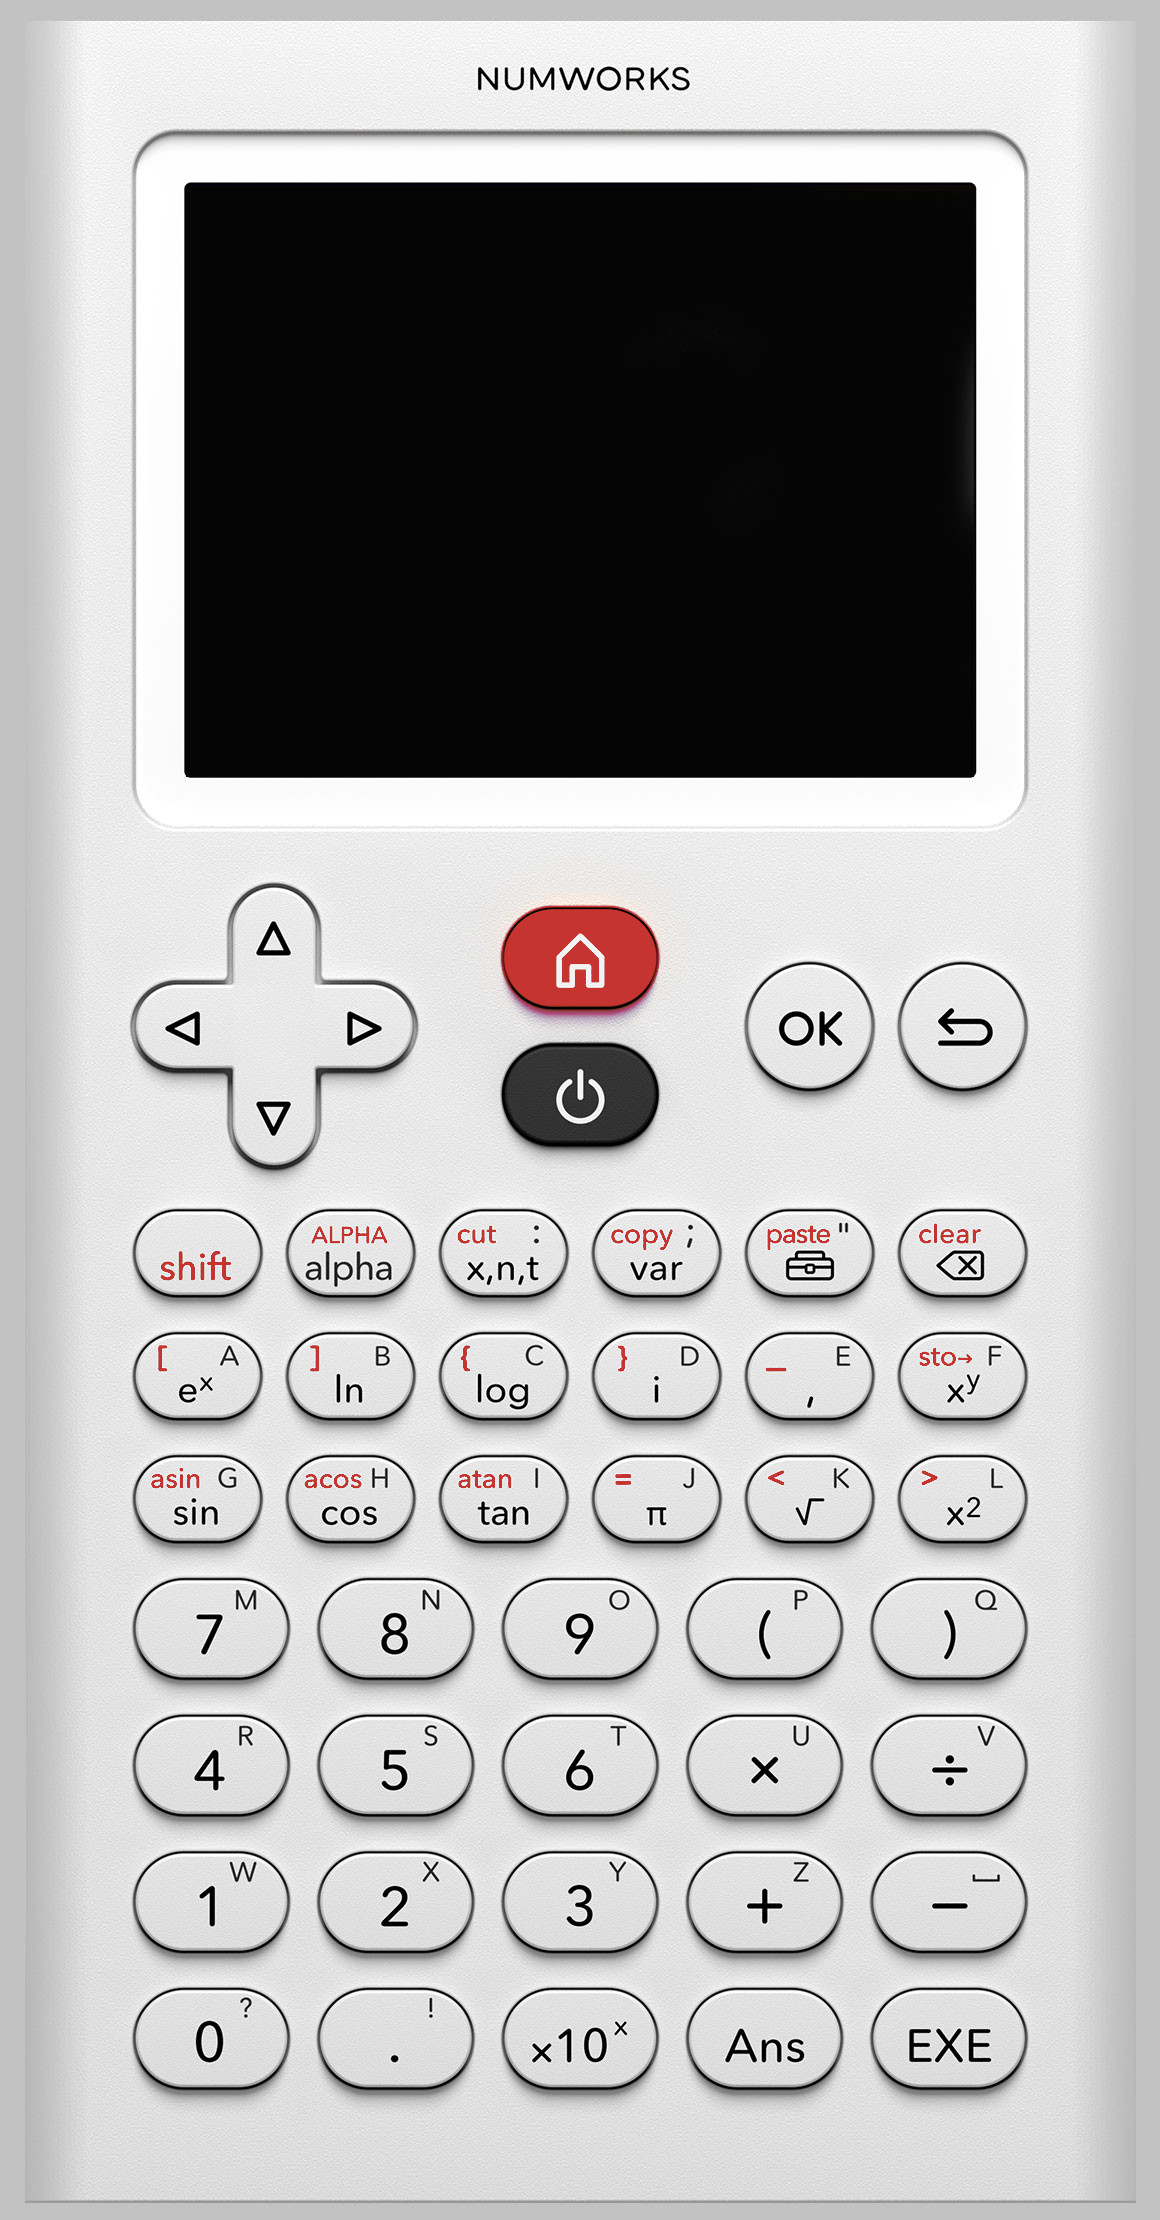
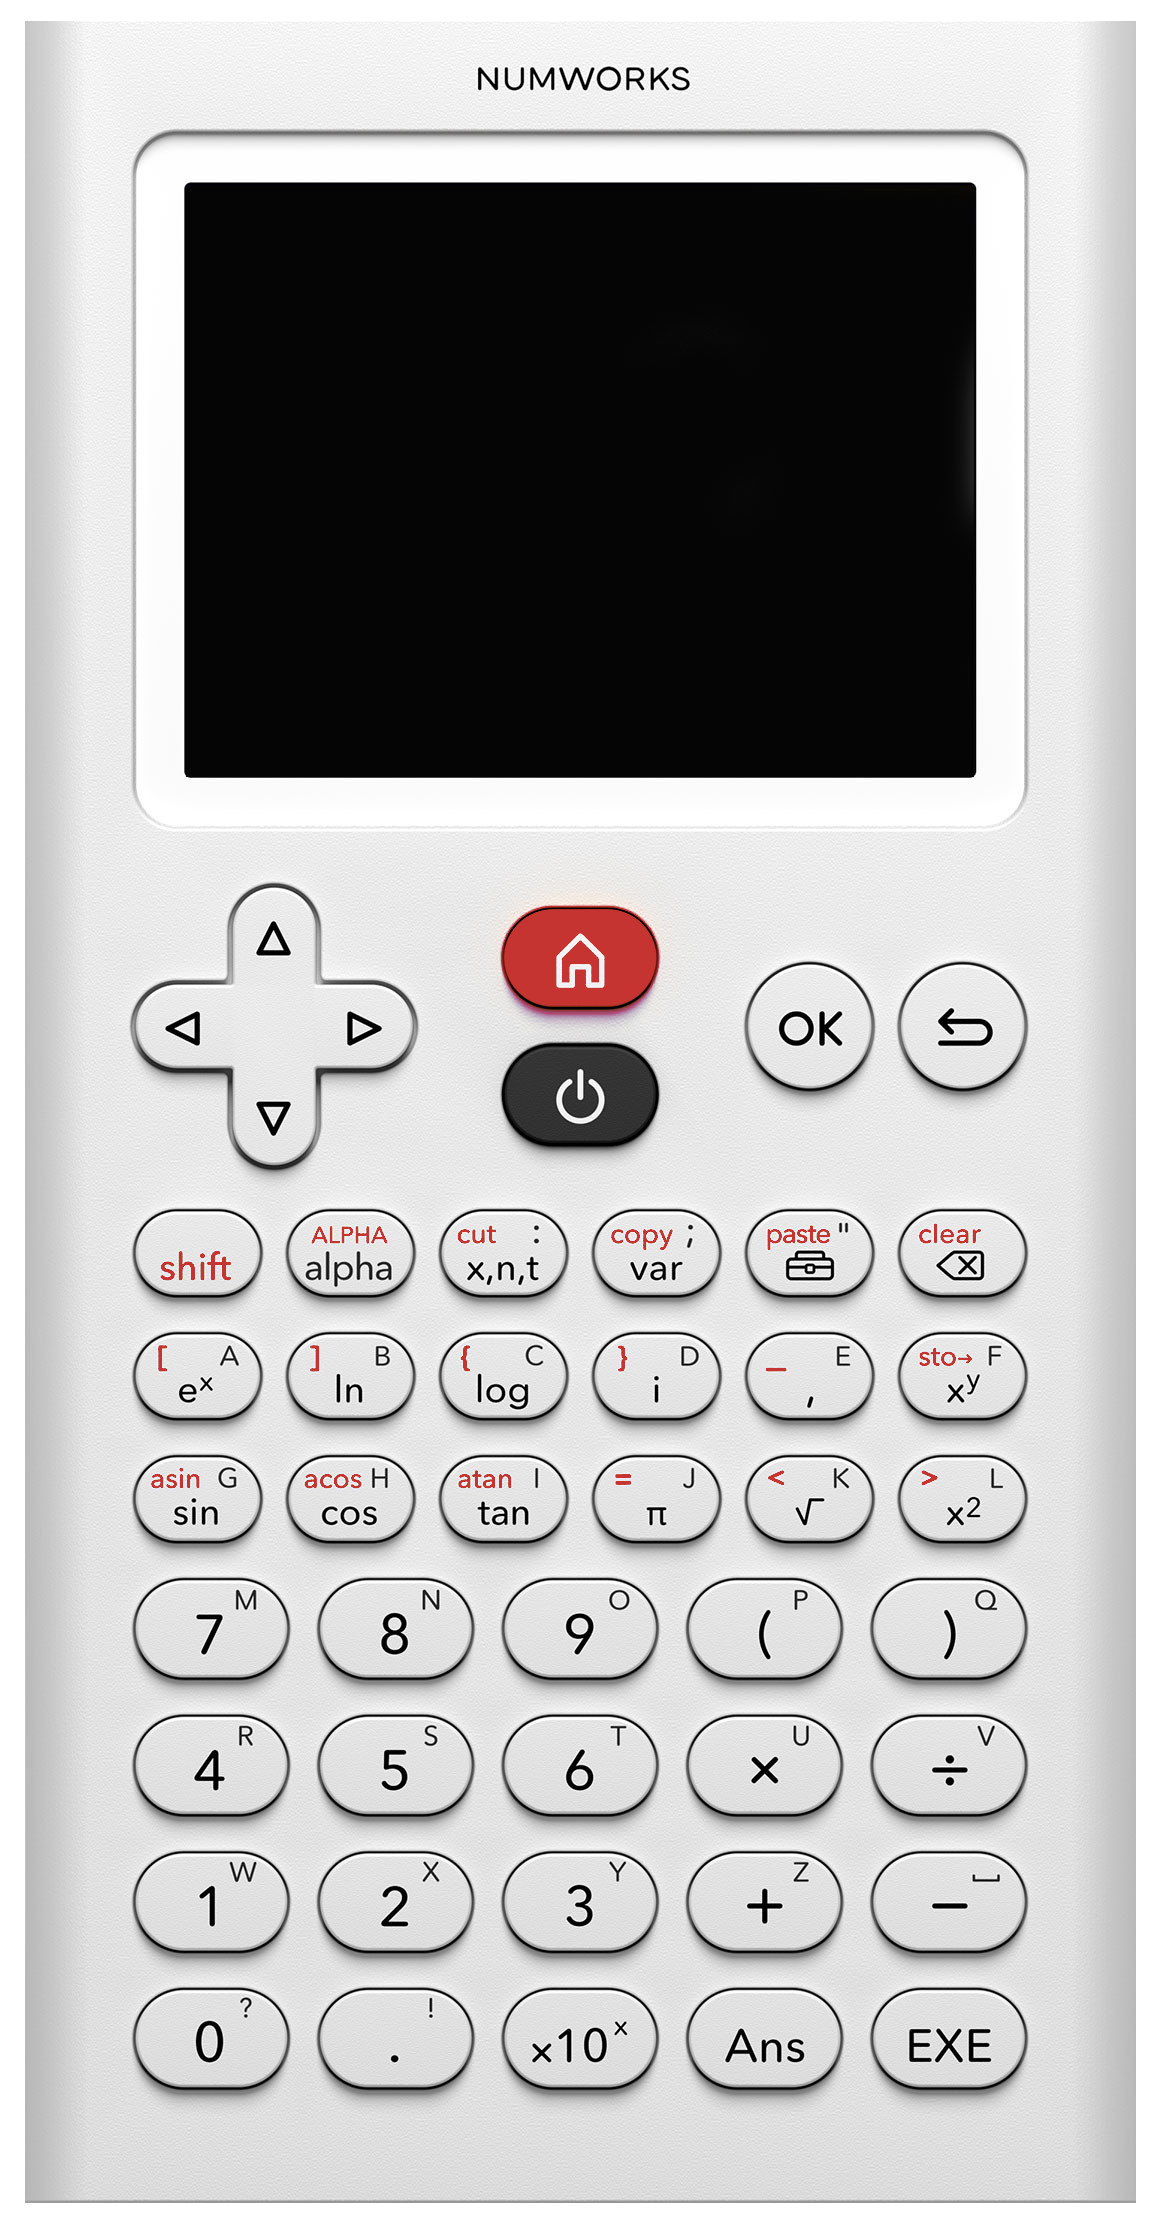
Added calculator component, started simulator page.

Changed region(s): [[0.0, 0.0, 1.0, 1.0]]

diff --git a/src/components/Calculator.js b/src/components/Calculator.js
@@ -1,14 +1,16 @@
 import React, { Component } from 'react'
+import ReactDOM from "react-dom";
 import PythonSimulator from '../simulator'
+import ImgSimulatorBackground from '../img/simulator-background.jpg'
 
 export default class Calculator extends Component {
     constructor(props) {
         super(props);
         
         this.state = {
-            keyboard: this.props.keyboard,
-            scripts: this.props.scripts,
-            python: this.props.python,
+            keyboard: this.props.keyboard === undefined ? true : this.props.keyboard,
+            scripts: this.props.scripts === undefined ? null : this.props.scripts,
+            python: this.props.python === undefined ? false : this.props.scripts,
             simulator: null
         };
         
@@ -19,17 +21,7 @@ export default class Calculator extends Component {
     componentDidMount() {
         var simulator = new PythonSimulator();
         simulator.load(function() {
-            var scripts_list = null;
-            var python_only = false;
-            
-            if (this.state.scripts !== undefined) {
-                scripts_list = this.state.scripts;
-            }
-            if (this.state.python !== undefined) {
-                python_only = this.state.python;
-            }
-            
-            simulator.run(scripts_list, python_only);
+            simulator.run(ReactDOM.findDOMNode(this), this.state.keyboard, this.state.scripts, this.state.python);
         }.bind(this));
         
         this.setState({
@@ -48,8 +40,63 @@ export default class Calculator extends Component {
     
     render() {
         return (
-            <div className="content">
-                <canvas id="screen" class="screen" oncontextmenu="event.preventDefault()"></canvas>
+            <div className="calculator">
+                <img className={"calculator__background" + (this.state.keyboard ? "" : " calculator__background__disabled")} src={ImgSimulatorBackground} alt="Red Ultra Swagg NumWorks Calculator"></img>
+                <canvas className={"calculator__screen" + (this.state.keyboard ? "" : " calculator__screen__nokeyboard")} oncontextmenu="event.preventDefault()"></canvas>
+                <div className={"calculator__keyboard" + (this.state.keyboard ? "" : " calculator__keyboard__disabled")}>
+                    <div className="calculator__keyboard__nav">
+                        <span className="calculator__keyboard__nav__key calculator__keyboard__nav__left" data-key="0"></span>
+                        <span className="calculator__keyboard__nav__key calculator__keyboard__nav__top" data-key="1"></span>
+                        <span className="calculator__keyboard__nav__key calculator__keyboard__nav__bottom" data-key="2"></span>
+                        <span className="calculator__keyboard__nav__key calculator__keyboard__nav__right" data-key="3"></span>
+                        <span className="calculator__keyboard__nav__key calculator__keyboard__nav__ok" data-key="4"></span>
+                        <span className="calculator__keyboard__nav__key calculator__keyboard__nav__back" data-key="5"></span>
+                        <span className="calculator__keyboard__nav__key calculator__keyboard__nav__home" data-key="6"></span>
+                        <span className="calculator__keyboard__nav__key calculator__keyboard__nav__power" data-key="7"></span>
+                    </div>
+                    <div className="calculator__keyboard__functions">
+                        <span className="calculator__keyboard__functions__key" data-key="12"></span>
+                        <span className="calculator__keyboard__functions__key" data-key="13"></span>
+                        <span className="calculator__keyboard__functions__key" data-key="14"></span>
+                        <span className="calculator__keyboard__functions__key" data-key="15"></span>
+                        <span className="calculator__keyboard__functions__key" data-key="16"></span>
+                        <span className="calculator__keyboard__functions__key" data-key="17"></span>
+                        <span className="calculator__keyboard__functions__key" data-key="18"></span>
+                        <span className="calculator__keyboard__functions__key" data-key="19"></span>
+                        <span className="calculator__keyboard__functions__key" data-key="20"></span>
+                        <span className="calculator__keyboard__functions__key" data-key="21"></span>
+                        <span className="calculator__keyboard__functions__key" data-key="22"></span>
+                        <span className="calculator__keyboard__functions__key" data-key="23"></span>
+                        <span className="calculator__keyboard__functions__key" data-key="24"></span>
+                        <span className="calculator__keyboard__functions__key" data-key="25"></span>
+                        <span className="calculator__keyboard__functions__key" data-key="26"></span>
+                        <span className="calculator__keyboard__functions__key" data-key="27"></span>
+                        <span className="calculator__keyboard__functions__key" data-key="28"></span>
+                        <span className="calculator__keyboard__functions__key" data-key="29"></span>
+                    </div>
+                    <div className="calculator__keyboard__digits">
+                        <span className="calculator__keyboard__digits__key" data-key="30"></span>
+                        <span className="calculator__keyboard__digits__key" data-key="31"></span>
+                        <span className="calculator__keyboard__digits__key" data-key="32"></span>
+                        <span className="calculator__keyboard__digits__key" data-key="33"></span>
+                        <span className="calculator__keyboard__digits__key" data-key="34"></span>
+                        <span className="calculator__keyboard__digits__key" data-key="36"></span>
+                        <span className="calculator__keyboard__digits__key" data-key="37"></span>
+                        <span className="calculator__keyboard__digits__key" data-key="38"></span>
+                        <span className="calculator__keyboard__digits__key" data-key="39"></span>
+                        <span className="calculator__keyboard__digits__key" data-key="40"></span>
+                        <span className="calculator__keyboard__digits__key" data-key="42"></span>
+                        <span className="calculator__keyboard__digits__key" data-key="43"></span>
+                        <span className="calculator__keyboard__digits__key" data-key="44"></span>
+                        <span className="calculator__keyboard__digits__key" data-key="45"></span>
+                        <span className="calculator__keyboard__digits__key" data-key="46"></span>
+                        <span className="calculator__keyboard__digits__key" data-key="48"></span>
+                        <span className="calculator__keyboard__digits__key" data-key="49"></span>
+                        <span className="calculator__keyboard__digits__key" data-key="50"></span>
+                        <span className="calculator__keyboard__digits__key" data-key="51"></span>
+                        <span className="calculator__keyboard__digits__key" data-key="52"></span>
+                    </div>
+                </div>
             </div>
         );
     }

diff --git a/src/sass/components/_calculator.sass b/src/sass/components/_calculator.sass
@@ -1,0 +1,142 @@
+.calculator
+    margin: 0 auto
+    position: relative
+    display: inline-block
+    text-align: left
+    
+    &__background
+        /* Rely on the img content to set the dimensions */
+        max-height: 80vh
+        max-width: 100%
+        display: block
+        
+        &__disabled
+            display: none;
+
+    &__screen
+        position: absolute
+        top: 8.5%
+        left: 16.25%
+        width: 67.5%
+        height: 26.3%
+        border: 0 none
+        
+        &__nokeyboard
+            width: auto
+            height: auto
+    &__keyboard
+        position: absolute
+        top: 38.5%
+        left: 10%
+        width: 81%
+        bottom: 5%
+        
+        &__disabled
+            display: none;
+        
+        &__nav
+            position: absolute
+            top: 0
+            height: 27%
+            width: 100%
+            
+            &__key
+                cursor: pointer
+                border-radius: 40%
+                display: block
+                float: left
+            &__key:hover
+                background-color: rgba(0, 0, 0, 0.1)
+            &__key:active
+                background-color: rgba(0, 0, 0, 0.2)
+            
+            &__left
+                position: absolute
+                top: 36%
+                left: 2%
+                width: 15%
+                height: 28%
+            &__right
+                position: absolute
+                top: 36%
+                left: 17%
+                width: 15%
+                height: 28%
+            &__top
+                position: absolute
+                top: 7%
+                left: 12%
+                width: 10%
+                height: 40%
+            &__bottom
+                position: absolute
+                top: 53%
+                left: 12%
+                width: 10%
+                height: 40%
+            &__home
+                position: absolute
+                top: 15%
+                left: 41%
+                width: 16%
+                height: 33%
+            &__power
+                position: absolute
+                top: 54%
+                left: 42%
+                width: 16%
+                height: 33%
+            &__ok
+                position: absolute
+                top: 31%
+                left: 67%
+                width: 13%
+                height: 38%
+            &__back
+                position: absolute
+                top: 31%
+                left: 84%
+                width: 13%
+                height: 38%
+                
+        
+        &__functions
+            position: absolute
+            top: 26.75%
+            left: 0.5%
+            width: 98%
+            
+            &__key
+                cursor: pointer
+                border-radius: 40%
+                display: block
+                float: left
+                margin: 1.7% 1%
+                width: 14.65%
+                height: 0
+                padding-top: 10%
+            &__key:hover
+                background-color: rgba(0, 0, 0, 0.1)
+            &__key:active
+                background-color: rgba(0, 0, 0, 0.2)
+        
+        &__digits
+            position: absolute
+            top: 56.5%
+            left: 0.5%
+            width: 98%
+            
+            &__key
+                cursor: pointer
+                border-radius: 40%
+                display: block
+                float: left
+                margin: 1.8% 2%
+                width: 16%
+                height: 0
+                padding-top: 11.3%
+            &__key:hover
+                background-color: rgba(0, 0, 0, 0.1)
+            &__key:active
+                background-color: rgba(0, 0, 0, 0.2)
+

diff --git a/src/simulator.js b/src/simulator.js
@@ -7,12 +7,18 @@ export default class PythonSimulator {
         this.script = null;
     }
     
-    run(scripts_list = null, python_only = false) {
+    run(calculator_element, keyboard = false, scripts_list = null, python_only = false) {
+        var screen_element = calculator_element.querySelector("canvas");
+        
+        if (screen_element === null) {
+            throw new Error("No canvas in calculator element!");
+        }
+        
         this.module = {
             // arguments: ["--language", window.navigator.language.split('-')[0], "--code-script", name + ":" + code, "--code-lock-on-console"],
             arguments: ["--language", window.navigator.language.split('-')[0]],
-            canvas: document.getElementById('screen'),
-            keyboardListeningElement: document.getElementById('screen')
+            canvas: screen_element,
+            keyboardListeningElement: screen_element
         };
         
         if (scripts_list !== null) {
@@ -29,6 +35,19 @@ export default class PythonSimulator {
             this.module.arguments.push("--code-lock-on-console");
         
         Epsilon(this.module);
+        
+        if (keyboard) {
+            var spans = calculator_element.querySelectorAll(".calculator__keyboard__nav__key,.calculator__keyboard__functions__key,.calculator__keyboard__digits__key");
+            for (var i=0; i< spans.length; i++) {
+                var span = spans[i];
+                span.addEventListener("mousedown", function(e) {
+                    this.module._IonSimulatorKeyboardKeyDown(e.target.getAttribute("data-key"));
+                }.bind(this));
+                span.addEventListener("mouseup", function(e) {
+                    this.module._IonSimulatorKeyboardKeyUp(e.target.getAttribute("data-key"));
+                }.bind(this));
+            }
+        }
     }
     
     stop() {
@@ -51,6 +70,10 @@ export default class PythonSimulator {
         };
         
         document.body.appendChild(this.script);
+    }
+    
+    screenshot() {
+        
     }
     
     unload() {

diff --git a/src/pages/Simulator.js b/src/pages/Simulator.js
@@ -15,7 +15,11 @@ export default class Simulator extends Component {
 
     render() {
         return (
-            <Calculator></Calculator>
+            <div className="content">
+                <div className="simulator">
+                    <Calculator></Calculator>
+                </div>
+            </div>
         )
     }
 }

diff --git a/src/sass/omega.library.sass b/src/sass/omega.library.sass
@@ -5,6 +5,7 @@
 
 @import 'components/_header.sass'
 @import 'components/_footer.sass'
+@import 'components/_calculator.sass'
 
 @import 'pages/_index.sass'
 @import 'pages/_policy.sass'

diff --git a/src/sass/pages/_simulator.sass b/src/sass/pages/_simulator.sass
@@ -1,0 +1,3 @@
+
+.simulator
+    height: 80vh
